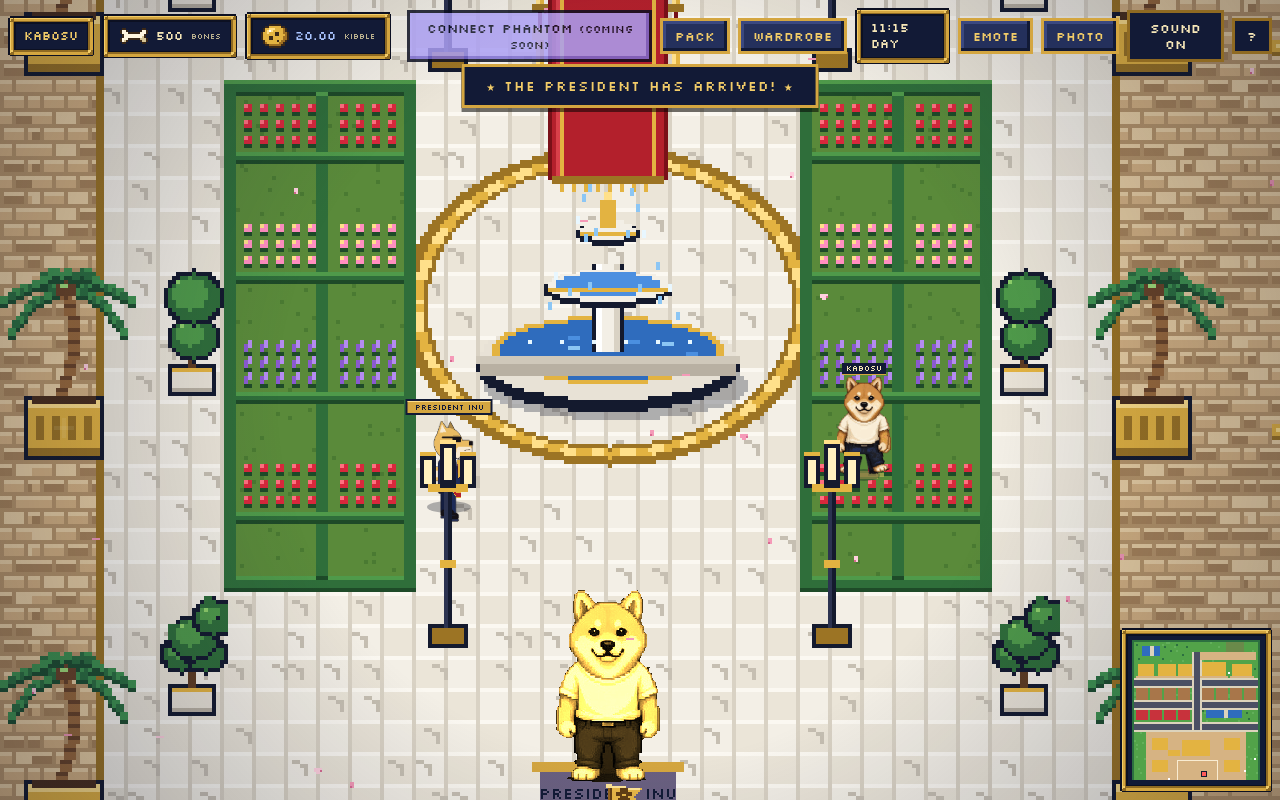
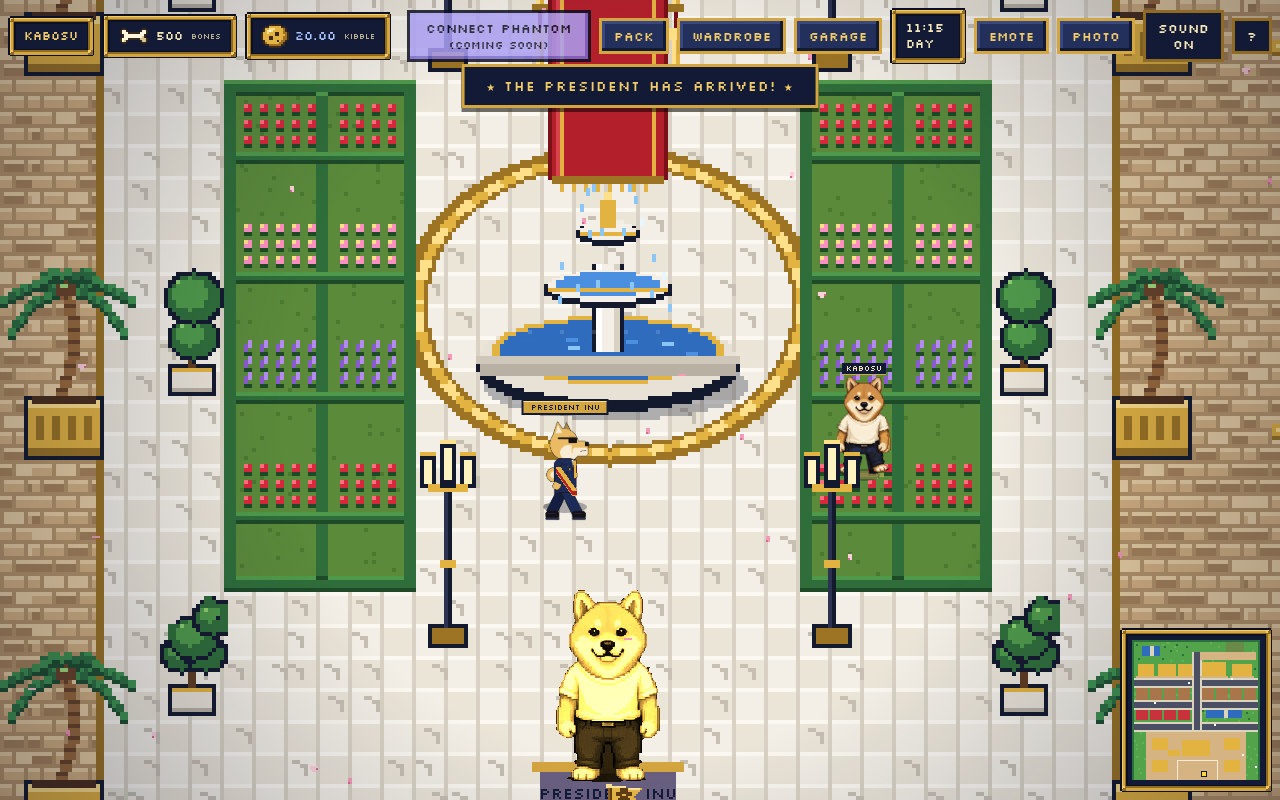
Buyable cars (8 models, 2 dealers, colours, garage, drive/honk/park, home driveway), pets (12 species, pet shop, follow/pet/name, home + photo), shared wallet adapter (sim now, kibble-pay swap), varied door positions + side porches with manifest/interact offsets; tests + proof

diff --git a/src/render.js b/src/render.js
@@ -1,4 +1,5 @@
 // Pixel-art world rendering: chunky gold-trimmed buildings, navy/gold palette.
+import { DOORS } from './world.js';
 import { TILE, MAP_W, MAP_H, MAP, T, BUILDINGS, PLOTS, NPC_HOMES, STALL_SLOTS, CLUBHOUSE, MALL_BUILDINGS, LEADERS, BRIDGES, DECOR } from './world.js';
 import { N, SCALE, PAL, buildGround, sprites, shadowEllipse, hash, mk, P } from './tiles.js';
 import { LAMP_TILES, unreadMail } from './ambient.js';
@@ -44,6 +45,7 @@ const THEMES = {
   fashion: { wall: '#5a2352', roof: '#3f1739', accent: '#f0a6dc', label: 'Clothing' },
   launch:  { wall: '#22377a', roof: '#18275a', accent: '#7fb4ff', label: 'Demo tokens' },
   cars:    { wall: '#2a2a33', roof: '#1c1c24', accent: '#c9c9d6', label: 'Coming soon' },
+  petshop: { wall: '#3a8a8a', roof: '#1e5a5a', accent: '#ffd84a', label: 'Pets - bones & KIBBLE' },
   mall:    { wall: '#6a4a14', roof: '#3a2a0a', accent: '#fff1b0', label: 'Luxury - demo KIBBLE' },
   jewel:   { wall: '#24305c', roof: '#121a36', accent: '#cfe8ff', label: 'Jewelry' },
   designer:{ wall: '#5a2352', roof: '#3f1739', accent: '#f0a6dc', label: 'Designer outfits' },
@@ -161,6 +163,29 @@ function drawBuildingArt(c, id, fx, fy, fw, fh) {
   const k = Math.max(1, Math.floor((fw * TILE) / im.width)), w = im.width * k, h = im.height * k; // integer upscale when the art is smaller than its footprint
   c.drawImage(im, fx * TILE + Math.round((fw * TILE - w) / 2), (fy + fh) * TILE - h, w, h); return true;
 }
+// Varied entrances: the art's centre door becomes a shop window; a new door is drawn left/right of centre or as a side porch.
+const sampleCv = {};
+function artPixel(id, ix, iy) { const im = BIMG[id]; if (!sampleCv[id]) { const [cv, x] = mk(im.width, im.height); x.drawImage(im, 0, 0); sampleCv[id] = x; } const d = sampleCv[id].getImageData(Math.max(0, Math.min(im.width - 1, ix | 0)), Math.max(0, Math.min(im.height - 1, iy | 0)), 1, 1).data; return `rgb(${d[0]},${d[1]},${d[2]})`; }
+function doorFace(c, dcx, base, accent) { // front double door with striped awning + steps (world px)
+  R(c, dcx - 22, base - 6, 44, 6, '#b8b0a2'); R(c, dcx - 22, base - 6, 44, 2, '#e8e2d6'); R(c, dcx - 18, base - 10, 36, 4, '#cfc8ba');
+  R(c, dcx - 17, base - 54, 34, 44, INK); for (const s of [-1, 1]) { const x = dcx + (s < 0 ? -15 : 1); R(c, x, base - 52, 14, 42, '#8a5a30'); R(c, x + 2, base - 50, 10, 16, '#fff3c0'); R(c, x + 2, base - 50, 3, 6, '#ffffff'); R(c, x + 2, base - 30, 10, 2, '#5e3c22'); R(c, x + (s < 0 ? 10 : 2), base - 28, 2, 6, GOLD_L); }
+  for (let i = 0; i < 6; i++) R(c, dcx - 24 + i * 8, base - 64, 8, 10, i % 2 ? '#f4f1ea' : accent); R(c, dcx - 24, base - 56, 48, 2, INK); for (let i = 0; i < 6; i++) R(c, dcx - 24 + i * 8 + 2, base - 54, 4, 2, i % 2 ? '#f4f1ea' : accent); }
+function shopWindow(c, cx, base, wall) { R(c, cx - 26, base - 70, 52, 66, wall); R(c, cx - 26, base - 4, 52, 4, '#b8b0a2');
+  R(c, cx - 21, base - 58, 42, 40, INK); R(c, cx - 19, base - 56, 38, 36, GOLD_D); R(c, cx - 17, base - 54, 34, 32, '#cfeefa'); R(c, cx - 15, base - 52, 4, 12, '#ffffff');
+  R(c, cx - 10, base - 34, 8, 10, '#c8323c'); R(c, cx + 2, base - 38, 10, 14, GOLD); R(c, cx + 4, base - 35, 6, 2, '#fff6ea'); R(c, cx - 19, base - 22, 38, 3, GOLD); R(c, cx - 21, base - 18, 42, 8, '#5e3c22'); for (let x = cx - 18; x < cx + 18; x += 5) R(c, x, base - 21, 3, 3, x % 2 ? '#ff7080' : '#ffd84a'); }
+function sidePorch(c, b, side) { const base = (b.y + b.h) * TILE, x = side === 'left' ? b.x * TILE - 30 : (b.x + b.w) * TILE + 2, im = BIMG[b.id];
+  const wall = im ? artPixel(b.id, side === 'left' ? 6 : im.width - 7, im.height - 40) : '#c8a878', th = THEMES[b.id] || THEMES.shop;
+  R(c, x - 2, base - 58, 32, 56, INK); R(c, x, base - 56, 28, 52, wall); R(c, x, base - 56, 28, 3, 'rgba(255,255,255,.25)');
+  R(c, x - 5, base - 66, 38, 10, INK); R(c, x - 4, base - 65, 36, 8, th.roof || '#5a2a1a'); R(c, x - 4, base - 58, 36, 2, GOLD);
+  R(c, x + 6, base - 46, 16, 40, INK); R(c, x + 7, base - 45, 14, 38, '#8a5a30'); R(c, x + 9, base - 43, 10, 12, '#fff3c0'); R(c, x + (side === 'left' ? 9 : 17), base - 26, 2, 5, GOLD_L);
+  R(c, x - 4, base - 6, 36, 6, '#b8b0a2'); R(c, x - 4, base - 6, 36, 2, '#e8e2d6'); // step
+  R(c, side === 'left' ? x + 28 : x - 2, base - 56, 2, 52, 'rgba(16,24,48,.3)'); }
+function drawDoors(c, b) { const d = DOORS[b.id], im = BIMG[b.id]; if (!d || !im) return;
+  const base = (b.y + b.h) * TILE, cx = (b.x + b.w / 2) * TILE, k = Math.max(1, Math.floor((b.w * TILE) / im.width)), x0 = b.x * TILE + Math.round((b.w * TILE - im.width * k) / 2), y0 = base - im.height * k;
+  const wall = artPixel(b.id, (cx - 1.4 * TILE - x0) / k, (base - 30 - y0) / k), th = THEMES[b.id] || THEMES.shop;
+  if (d.side === 'front' && Math.abs((b.x + d.dx + 0.5) * TILE - cx) < 24) return; // already centred
+  shopWindow(c, cx, base, wall);
+  if (d.side === 'front') doorFace(c, (b.x + d.dx + 0.5) * TILE, base, th.accent === '#fff1b0' ? '#c8323c' : (th.accent || '#c8323c')); }
 function plaque(c, text, cx, y) {
   c.font = `8px ${FONT}`; const w = Math.ceil(c.measureText(text).width) + 10;
   R(c, cx - w / 2 - 1, y - 1, w + 2, 13, INK); R(c, cx - w / 2, y, w, 11, NAVY); R(c, cx - w / 2, y + 10, w, 1, GOLD);
@@ -211,7 +236,8 @@ export function prerenderMap() {
     else if (!LUX.has(d.kind)) props.push(d.kind === 'hedge' ? sp(S.hedge, d.x * TILE, d.y * TILE + 4, d.y * TILE + 30) : sp(S[d.kind], d.x * TILE - 2, d.y * TILE + 4, d.y * TILE + 30)); }
   for (const h of NPC_HOMES) props.push(sp(S.mailbox, (h.x + 5) * TILE + 6, (h.y + h.h + 1) * TILE - 34, (h.y + h.h + 1) * TILE - 2));
   // buildings (square front-facing art; legacy procedural storefront if the PNG is missing)
-  for (const b of [...BUILDINGS, ...MALL_BUILDINGS]) props.push({ y: (b.y + b.h) * TILE - 1, d: (c) => { if (b.id === 'mall') return drawMallFacade(c, pixelText); if (!drawBuildingArt(c, b.id, b.x, b.y, b.w, b.h)) legacyBuilding(c, b); } });
+  for (const b of [...BUILDINGS, ...MALL_BUILDINGS]) props.push({ y: (b.y + b.h) * TILE - 1, d: (c) => { if (b.id === 'mall') return drawMallFacade(c, pixelText); if (!drawBuildingArt(c, b.id, b.x, b.y, b.w, b.h)) legacyBuilding(c, b); else drawDoors(c, b); } });
+  for (const b of [...BUILDINGS, ...MALL_BUILDINGS]) if (DOORS[b.id] && DOORS[b.id].side !== 'front') props.push({ y: (b.y + b.h) * TILE - 26, d: (c) => sidePorch(c, b, DOORS[b.id].side) });
   props.push(...luxuryProps());
   for (const h of NPC_HOMES) props.push({ y: (h.y + h.h) * TILE - 1, d: (c) => { if (!drawBuildingArt(c, HOUSE_ART[h.id], h.x, h.y, h.w, h.h)) legacyNpcHouse(c, h); plaque(c, `${h.owner.toUpperCase()}'S`, (h.x + 1.5) * TILE, (h.y + h.h) * TILE - 22); } });
   props.push({ y: (LEADERS.y + LEADERS.h) * TILE - 1, d: (c) => { if (drawBuildingArt(c, 'leaders', LEADERS.x, LEADERS.y, LEADERS.w, LEADERS.h)) return;

diff --git a/src/pets.js b/src/pets.js
@@ -1,0 +1,51 @@
+// Pets: bought like clothes, follow the player, idle + walk animations, can be named and petted.
+// Common pets cost Bones; exotic pets cost $KIBBLE through the shared wallet adapter (treasury + pool split).
+import { wallet } from './wallet.js';
+import { toU } from './mall.js';
+export const PETS = {
+  kitten:   { name: 'Kitten', cur: 'bones', price: 150, pal: ['#f0a050', '#b86a2a', '#fff1e0'] },
+  bunny:    { name: 'Bunny', cur: 'bones', price: 120, pal: ['#f4f1ea', '#c9c3b8', '#ff9fb8'] },
+  hamster:  { name: 'Hamster', cur: 'bones', price: 80, pal: ['#e8b070', '#b07840', '#fff4e0'] },
+  parrot:   { name: 'Parrot', cur: 'bones', price: 200, pal: ['#3fb04a', '#e8343c', '#ffd84a'] },
+  fishbowl: { name: 'Goldfish Bowl', cur: 'bones', price: 60, pal: ['#ff8a2a', '#9fd8f5', '#e6f7ff'] },
+  redpanda: { name: 'Red Panda', cur: 'kibble', price: 18, exotic: true, pal: ['#c8502a', '#3a2418', '#fff1e0'] },
+  fennec:   { name: 'Fennec Fox', cur: 'kibble', price: 15, exotic: true, pal: ['#e8c88a', '#b08a50', '#fff6ea'] },
+  axolotl:  { name: 'Axolotl', cur: 'kibble', price: 12, exotic: true, pal: ['#ffa8c8', '#e86a9a', '#9fd8f5'] },
+  peacock:  { name: 'Peacock', cur: 'kibble', price: 22, exotic: true, pal: ['#2a6ad0', '#2aa890', '#e3b341'] },
+  dragon:   { name: 'Baby Dragon-Lizard', cur: 'kibble', price: 30, exotic: true, pal: ['#4fb05a', '#2a7038', '#ffd84a'] },
+  koi:      { name: 'Golden Koi', cur: 'kibble', price: 25, exotic: true, pal: ['#e3b341', '#fff6ea', '#9fd8f5'] },
+  snowowl:  { name: 'Snow Owl', cur: 'kibble', price: 20, exotic: true, pal: ['#f4f6fa', '#9aa0b4', '#ffd84a'] },
+};
+export function ensurePets(s) { s.pets ||= { owned: [], active: null }; return s.pets; }
+export function buyPet(s, species, name) {
+  const p = PETS[species], st = ensurePets(s); if (!p) return { ok: false, reason: 'Unknown pet' };
+  if (p.cur === 'bones') { if (s.bones < p.price) return { ok: false, reason: `Need ${p.price} bones` }; s.bones -= p.price; }
+  else { const r = wallet().purchaseSync({ state: s, itemId: 'pet-' + species, priceU: toU(p.price) }); if (!r.ok) return r; }
+  const pet = { id: 'pet' + (st.owned.length + 1), species, name: (name || '').trim().slice(0, 16) || p.name }; st.owned.push(pet); st.active = pet.id; return { ok: true, pet };
+}
+export function renamePet(s, id, name) { const p = ensurePets(s).owned.find((q) => q.id === id); if (p && name.trim()) p.name = name.trim().slice(0, 16); return p; }
+export const activePet = (s) => { const st = ensurePets(s); return st.owned.find((p) => p.id === st.active) || null; };
+// follow: trails a few steps behind the player, stops when close (headless)
+export function followStep(f, tx, ty, dt) { const dx = tx - f.x, dy = ty - f.y, d = Math.hypot(dx, dy); f.moving = d > 26; if (f.moving) { const sp = Math.min(d - 20, 120 * dt + d * 2 * dt); f.x += (dx / d) * sp; f.y += (dy / d) * sp; if (Math.abs(dx) > 2) f.dir = dx > 0 ? 1 : -1; f.phase = (f.phase || 0) + dt * 10; } else f.phase = (f.phase || 0) + dt * 2; return f; }
+
+// ---------- pixel sprites (native 16x16, 2 frames) ----------
+const cache = new Map();
+export function petSprite(species, frame = 0) { const k = species + frame; let cv = cache.get(k); if (cv) return cv;
+  cv = document.createElement('canvas'); cv.width = 16; cv.height = 16; const c = cv.getContext('2d'), [a, b, e] = PETS[species].pal, I = '#141a2e', P = (x, y, w, h, col) => { c.fillStyle = col; c.fillRect(x, y, w, h); }, f = frame;
+  const legs = (xs, y) => xs.forEach((x, i) => P(x, y + ((i + f) % 2 ? 0 : -1), 2, 2, b));
+  switch (species) {
+    case 'kitten': P(3, 7, 9, 6, I); P(4, 8, 7, 4, a); P(9, 3, 6, 6, I); P(10, 4, 4, 4, a); P(10, 2, 2, 2, I); P(13, 2, 2, 2, I); P(11, 5, 1, 1, I); P(13, 5, 1, 1, I); P(1, 5 + f, 2, 4, a); P(5, 9, 4, 1, b); legs([4, 9], 13); break;
+    case 'bunny': P(3, 8, 9, 6, I); P(4, 9, 7, 4, a); P(9, 5, 5, 5, I); P(10, 6, 3, 3, a); P(10, 0, 2, 6, I); P(12, 0 + f, 2, 6, I); P(10, 1, 1, 4, e); P(12, 1 + f, 1, 4, e); P(12, 7, 1, 1, I); P(2, 9, 2, 2, '#ffffff'); legs([4, 9], 14 - f); break;
+    case 'hamster': P(3, 7, 11, 7, I); P(4, 8, 9, 5, a); P(4, 11, 9, 2, e); P(11, 9, 1, 1, I); P(10, 6, 2, 2, b); P(5, 6, 2, 2, b); legs([5, 10], 14); break;
+    case 'parrot': P(6, 3, 6, 10, I); P(7, 4, 4, 8, a); P(10, 5, 3, 2, e); P(8, 5, 1, 1, I); P(5, 7 - f, 2, 5, b); P(11, 7 - f, 2, 5, b); P(7, 12, 4, 3, b); P(7, 14, 1, 2, '#e3b341'); P(10, 14, 1, 2, '#e3b341'); break;
+    case 'fishbowl': P(2, 4, 12, 11, I); P(3, 5, 10, 9, b); P(3, 5, 10, 2, e); P(5 + f * 2, 9, 4, 3, a); P(4 + f * 2, 10, 1, 1, a); P(4, 7, 1, 3, '#ffffff'); P(3, 14, 10, 1, '#c9a46a'); break;
+    case 'redpanda': P(2, 7, 10, 6, I); P(3, 8, 8, 4, a); P(3, 11, 8, 1, b); P(9, 3, 6, 6, I); P(10, 4, 4, 4, a); P(10, 6, 4, 2, e); P(11, 5, 1, 1, I); P(13, 5, 1, 1, I); P(0, 6 + f, 3, 6, a); P(0, 8 + f, 3, 1, b); P(0, 10 + f, 3, 1, b); legs([4, 9], 13); break;
+    case 'fennec': P(3, 8, 9, 5, I); P(4, 9, 7, 3, a); P(9, 5, 6, 5, I); P(10, 6, 4, 3, a); P(8, 0, 3, 6, I); P(13, 0, 3, 6, I); P(9, 1, 1, 4, e); P(14, 1, 1, 4, e); P(12, 7, 1, 1, I); P(0, 8 + f, 4, 3, a); P(0, 8 + f, 1, 3, e); legs([4, 9], 13); break;
+    case 'axolotl': P(2, 8, 12, 5, I); P(3, 9, 10, 3, a); P(10, 6, 5, 6, I); P(11, 7, 3, 4, a); P(9, 5, 1, 3, b); P(15, 5, 1, 3, b); P(9, 11, 1, 2, b); P(12, 8, 1, 1, I); P(0, 9 + f, 3, 2, a); legs([4, 9], 13); break;
+    case 'peacock': for (let i = 0; i < 5; i++) { P(0 + i * 2, 1 + (i % 2) + f, 3, 9, b); P(1 + i * 2, 3 + (i % 2) + f, 1, 2, e); } P(8, 5, 5, 8, I); P(9, 6, 3, 6, a); P(10, 2, 3, 4, a); P(13, 3, 1, 1, e); P(11, 1, 1, 1, e); P(9, 13, 1, 2, b); P(11, 13, 1, 2, b); break;
+    case 'dragon': P(2, 8, 10, 5, I); P(3, 9, 8, 3, a); P(9, 5, 6, 5, I); P(10, 6, 4, 3, a); P(12, 7, 1, 1, I); P(4, 5 - f, 4, 4, b); P(5, 6 - f, 2, 2, e); P(0, 10, 3, 2, a); P(0, 11, 1, 1, e); for (const x of [4, 6, 8]) P(x, 8, 1, 1, e); legs([4, 9], 13); break;
+    case 'koi': P(2, 4, 12, 11, I); P(3, 5, 10, 9, c3(b)); P(5 + f * 2, 8, 5, 3, a); P(6 + f * 2, 9, 2, 1, e); P(3 + f * 2, 9, 2, 1, a); P(4, 6, 1, 3, '#ffffff'); P(3, 14, 10, 1, '#e3b341'); break;
+    case 'snowowl': P(4, 3, 9, 11, I); P(5, 4, 7, 9, a); P(6, 5, 2, 2, e); P(9, 5, 2, 2, e); P(6, 5, 1, 1, I); P(10, 5, 1, 1, I); P(8, 7, 1, 1, '#e3b341'); P(5, 9, 7, 1, b); P(4 - f, 7, 1, 4, b); P(12 + f, 7, 1, 4, b); P(6, 14, 1, 2, '#e3b341'); P(10, 14, 1, 2, '#e3b341'); break;
+  }
+  cache.set(k, cv); return cv; }
+const c3 = (x) => x;

diff --git a/src/world.js b/src/world.js
@@ -18,7 +18,12 @@ export const MALL_BUILDINGS = [
   { id: 'goldden', name: 'Golden Den Furniture', x: 10, y: 60, w: 8, h: 6, cat: 'furniture' },
   { id: 'luxauto', name: 'Zoomies Luxury Autos', x: 46, y: 60, w: 8, h: 6, cat: 'car' },
   { id: 'office', name: "President's Office", x: 27, y: 74, w: 10, h: 5, cat: 'office' },
+  { id: 'petshop', name: 'Pawsome Pets', x: 10, y: 70, w: 8, h: 6, cat: 'pets' },
 ];
+// Varied entrances: front door offset (tiles from the left), or a side porch on the left/right wall facing a side street.
+export const DOORS = {"cafe": {dx: 1, side: "front"}, "shop": {dx: 7, side: "front"}, "fashion": {dx: 0, side: "right"}, "cars": {dx: 2, side: "front"}, "jewel": {dx: 0, side: "left"}, "designer": {dx: 6, side: "front"}, "goldden": {dx: 0, side: "right"}, "luxauto": {dx: 1, side: "front"}, "petshop": {dx: 6, side: "front"}};
+export function doorTile(b) { const d = DOORS[b.id]; if (!d) return { tx: b.x + Math.floor(b.w / 2), ty: b.y + b.h, side: 'front' };
+  return d.side === 'left' ? { tx: b.x - 1, ty: b.y + b.h - 1, side: 'left' } : d.side === 'right' ? { tx: b.x + b.w, ty: b.y + b.h - 1, side: 'right' } : { tx: b.x + d.dx, ty: b.y + b.h, side: 'front' }; }
 export const STATUE = { x: 31, y: 71 };
 export const FOUNTAIN = { x: 30, y: 63, w: 4, h: 3 }; // tiered marble fountain on the Kibble Mall forecourt
 export const FORECOURT = { x: 24, y: 58, w: 16, h: 16 }; // marble plaza in front of the mall
@@ -68,7 +73,7 @@ export const MAP = buildMap();
 // Solid decor: flowering bushes flanking shop doors + hedges along NPC home fronts (door columns left open).
 export const DECOR = [];
 { const ok = (x, y) => [T.GRASS, T.FLOWER, T.PLAZA].includes(MAP[y]?.[x]);
-  for (const b of [...BUILDINGS, ...MALL_BUILDINGS]) { if (ok(b.x - 1, b.y + b.h - 1)) DECOR.push({ x: b.x - 1, y: b.y + b.h - 1, kind: 'bushP' }); if (ok(b.x + b.w, b.y + b.h - 1)) DECOR.push({ x: b.x + b.w, y: b.y + b.h - 1, kind: 'bushY' }); }
+  for (const b of [...BUILDINGS, ...MALL_BUILDINGS]) { const sd = DOORS[b.id]?.side; if (sd !== 'left' && ok(b.x - 1, b.y + b.h - 1)) DECOR.push({ x: b.x - 1, y: b.y + b.h - 1, kind: 'bushP' }); if (sd !== 'right' && ok(b.x + b.w, b.y + b.h - 1)) DECOR.push({ x: b.x + b.w, y: b.y + b.h - 1, kind: 'bushY' }); }
   for (const h of NPC_HOMES) for (const dx of [0, 1, 4, 5]) DECOR.push({ x: h.x + dx, y: h.y + h.h, kind: 'hedge' });
   for (const [xs, y] of [[[2, 12, 21, 38, 46, 61], 19], [[8, 15, 22, 41, 48, 55], 23], [[8, 15, 22, 36, 42, 52, 58], 34]]) for (const x of xs) if (MAP[y][x] === T.WALK) DECOR.push({ x, y, kind: 'planter' }); // street trees
   for (const [x, y] of [[49, 18], [50, 18], [58, 18], [59, 18], [44, 66], [45, 66], [54, 66], [55, 66]]) DECOR.push({ x, y, kind: 'car' });
@@ -84,8 +89,8 @@ export const isSolid = (tx, ty) => tx < 0 || ty < 0 || tx >= MAP_W || ty >= MAP_
 // Interaction points: tile player should stand on
 export function interactables(state) {
   const list = [];
-  for (const b of BUILDINGS) list.push({ kind: 'building', id: b.id, name: b.name, tx: b.x + Math.floor(b.w / 2), ty: b.y + b.h });
-  for (const b of MALL_BUILDINGS) list.push({ kind: 'mall', id: b.id, name: b.name, cat: b.cat, tx: b.x + Math.floor(b.w / 2), ty: b.y + b.h });
+  for (const b of BUILDINGS) list.push({ kind: 'building', id: b.id, name: b.name, ...doorTile(b) });
+  for (const b of MALL_BUILDINGS) list.push({ kind: 'mall', id: b.id, name: b.name, cat: b.cat, ...doorTile(b) });
   list.push({ kind: 'mall', id: 'board', name: 'Mall prize-pool board', cat: 'board', tx: STATUE.x + 3, ty: STATUE.y });
   list.push({ kind: 'mall', id: 'leaders', name: 'Leaderboards Hall', cat: 'leaders', tx: LEADERS.x + 3, ty: LEADERS.y + LEADERS.h });
   for (const p of PLOTS) {

diff --git a/src/cars.js b/src/cars.js
@@ -10,16 +10,24 @@ export const LANES = { // 3-tile roads = two 48px lanes, right-hand traffic
 const INK = '#141a2e', GLASS = '#9fd8f5', GLASS_L = '#e6f7ff', TIRE = '#22232c', HUB = '#9aa0b4', HEAD = '#fff6c8', TAIL = '#e8343c', CHROME = '#c9cede';
 const shade = (hex, f) => { const n = parseInt(hex.slice(1), 16); return '#' + [16, 8, 0].map((s) => Math.max(0, Math.min(255, Math.round(((n >> s) & 255) * f))).toString(16).padStart(2, '0')).join(''); };
 const cache = new Map();
+// cabin [x0, x1, roofY] per model; body/wheels shared so every model keeps the same footprint + scale
+const CABIN = { sedan: [9, 27, 2], coupe: [12, 24, 4], limo: [9, 27, 2], hatch: [4, 24, 2], suv: [4, 28, 1], pickup: [17, 28, 3], supercar: [14, 26, 6], convertible: [0, 0, 9] };
 function mk(w, h) { const cv = document.createElement('canvas'); cv.width = w; cv.height = h; const c = cv.getContext('2d'); return [cv, c]; }
 const P = (c, x, y, w, h, col) => { c.fillStyle = col; c.fillRect(x, y, w, h); };
 
 function side(col, kind) { // 40 x 20 native, nose at the right, wheels touch y=20
-  const [cv, c] = mk(36, 20), L = shade(col, 1.3), D = shade(col, 0.68), [cx0, cx1, cy] = kind === 'coupe' ? [12, 24, 4] : [9, 27, 2];
+  const [cv, c] = mk(36, 20), L = shade(col, 1.3), D = shade(col, 0.68), [cx0, cx1, cy] = CABIN[kind] || CABIN.sedan;
+  if (kind === 'convertible') { P(c, 22, 5, 1, 5, INK); P(c, 23, 4, 2, 6, GLASS); P(c, 23, 4, 1, 2, GLASS_L); P(c, 11, 6, 3, 4, '#5e3c22'); P(c, 17, 6, 3, 4, '#5e3c22'); P(c, 11, 6, 3, 1, '#8a5a30'); P(c, 17, 6, 3, 1, '#8a5a30'); }
+  else {
   P(c, cx0, cy - 1, cx1 - cx0, 1, INK); P(c, cx0 - 1, cy, 1, 10 - cy, INK); P(c, cx1, cy, 1, 10 - cy, INK); // cabin outline
   P(c, cx0, cy, cx1 - cx0, 10 - cy, col); P(c, cx0, cy, cx1 - cx0, 1, L);
   P(c, cx0 + 1, cy + 1, cx1 - cx0 - 2, 8 - cy, GLASS); P(c, cx0 + 1, cy + 1, 4, 1, GLASS_L); P(c, cx0 + 2, cy + 2, 1, 2, GLASS_L);
   P(c, Math.round((cx0 + cx1) / 2), cy + 1, 1, 8 - cy, col); // B-pillar
   if (kind === 'limo') P(c, cx0 + 5, cy + 1, 1, 8 - cy, col);
+  if (kind === 'suv') { P(c, cx0 + 1, 0, cx1 - cx0 - 2, 1, '#6e7386'); for (const x of [cx0 + 2, cx1 - 3]) P(c, x, 0, 1, 1, INK); }
+  }
+  if (kind === 'pickup') { P(c, 1, 7, 15, 3, INK); P(c, 2, 8, 13, 2, D); P(c, 2, 7, 13, 1, L); }
+  if (kind === 'supercar') { P(c, 0, 6, 6, 2, INK); P(c, 1, 6, 4, 1, L); P(c, 2, 8, 1, 2, INK); P(c, 28, 9, 7, 1, D); }
   P(c, 1, 9, 34, 1, INK); P(c, 0, 10, 1, 7, INK); P(c, 35, 10, 1, 7, INK); P(c, 1, 17, 34, 1, INK); // body outline
   P(c, 1, 10, 34, 7, col); P(c, 1, 10, 34, 1, L); P(c, 1, 15, 34, 2, D); P(c, 5, 13, 26, 1, D); // body, highlight, crease
   P(c, 15, 11, 3, 1, CHROME); P(c, 23, 11, 3, 1, CHROME); // door handles
@@ -38,6 +46,10 @@ function top(col, kind, view) { // 20 x 40 native (16 body + wheel nubs), front 
   if (view === 'front') { glass(6, 4); P(c, 4, 11, 12, 10, L); P(c, 5, 12, 10, 8, col); glass(22, 4); P(c, 4, 27, 12, 1, D); nose(HEAD); }
   else { glass(10, 4); P(c, 4, 15, 12, 10, L); P(c, 5, 16, 10, 8, col); glass(26, 3); P(c, 4, 8, 12, 1, D); nose(TAIL); }
   if (kind === 'limo') P(c, 9, 1, 2, 34, '#fff1b0');
+  if (kind === 'convertible') { P(c, 4, 12, 12, 13, '#5e3c22'); for (const y of [14, 20]) { P(c, 5, y, 4, 3, '#8a5a30'); P(c, 11, y, 4, 3, '#8a5a30'); } }
+  if (kind === 'pickup') { const y0 = view === 'front' ? 3 : 20; P(c, 4, y0, 12, 13, INK); P(c, 5, y0 + 1, 10, 11, D); }
+  if (kind === 'supercar') { P(c, 9, 1, 2, 34, '#141a2e'); P(c, 3, view === 'front' ? 1 : 33, 14, 2, INK); }
+  if (kind === 'suv') { P(c, 5, 12, 1, 12, '#6e7386'); P(c, 14, 12, 1, 12, '#6e7386'); }
   return cv;
 }
 export function carSprite(col, view = 'side', kind = 'sedan') {

diff --git a/src/garage.js b/src/garage.js
@@ -1,0 +1,23 @@
+// Buyable cars: Zoomies Motors (everyday, Bones) + Zoomies Luxury Autos (luxury, $KIBBLE via the wallet adapter, 2% split).
+import { wallet } from './wallet.js';
+import { toU } from './mall.js';
+export const CAR_MODELS = {
+  hatch:       { name: 'Pupper Hatchback', kind: 'hatch', dealer: 'cars', price: 400, cur: 'bones', speed: 190, blurb: 'Zippy little city runabout.' },
+  sedan:       { name: 'Fetch Sedan', kind: 'sedan', dealer: 'cars', price: 650, cur: 'bones', speed: 205, blurb: 'Comfy family cruiser.' },
+  suv:         { name: 'Trailblazer SUV', kind: 'suv', dealer: 'cars', price: 900, cur: 'bones', speed: 200, blurb: 'Room for the whole Pack.' },
+  pickup:      { name: 'Bone Hauler Pickup', kind: 'pickup', dealer: 'cars', price: 800, cur: 'bones', speed: 195, blurb: 'Hauls bones by the bed-load.' },
+  coupe:       { name: 'Zoomie GT Coupe', kind: 'coupe', dealer: 'luxauto', price: 40, cur: 'kibble', speed: 250, blurb: 'Sports coupe, tuned for zoomies.' },
+  convertible: { name: 'Riviera Convertible', kind: 'convertible', dealer: 'luxauto', price: 55, cur: 'kibble', speed: 235, blurb: 'Ears in the wind.' },
+  supercar:    { name: 'Comet Supercar', kind: 'supercar', dealer: 'luxauto', price: 90, cur: 'kibble', speed: 280, blurb: 'Fastest thing on four paws.' },
+  limo:        { name: 'Gold Bone-mobile Limo', kind: 'limo', dealer: 'luxauto', price: 65, cur: 'kibble', speed: 210, blurb: 'Fit for a President.' },
+};
+export const CAR_COLORS = { Red: '#c8323c', Blue: '#2f6fbd', Green: '#3f9450', Gold: '#e3b341', White: '#f2efe6', Black: '#232633', Pink: '#e86a9a', Purple: '#7a4ac0' };
+export function ensureGarage(s) { s.garage ||= { cars: [], active: null, parked: null }; return s.garage; }
+export const ownsModel = (s, model) => ensureGarage(s).cars.some((c) => c.model === model);
+export function buyCar(s, model, color) {
+  const m = CAR_MODELS[model], g = ensureGarage(s), col = CAR_COLORS[color] ? color : 'Red'; if (!m) return { ok: false, reason: 'Unknown model' };
+  if (m.cur === 'bones') { if (s.bones < m.price) return { ok: false, reason: `Need ${m.price} bones` }; s.bones -= m.price; }
+  else { const r = wallet().purchaseSync({ state: s, itemId: 'car-' + model, priceU: toU(m.price) }); if (!r.ok) return r; }
+  const car = { id: 'c' + (g.cars.length + 1) + '-' + model, model, color: col }; g.cars.push(car); g.active ??= car.id; return { ok: true, car };
+}
+export const carOf = (s, id) => ensureGarage(s).cars.find((c) => c.id === id);

diff --git a/src/wallet.js b/src/wallet.js
@@ -1,0 +1,28 @@
+// Shared wallet adapter for every $KIBBLE purchase (cars, exotic pets, ...).
+// Today: SimWallet (local demo balance, exact 2% split recorded to the treasury ledger, NO transfers).
+// Later: setWallet(kibblePayWallet(kibblePay)) swaps in /workspace/kibble-pay (tKIBBLE on devnet) without touching callers.
+// Contract: wallet.purchase({ state, itemId, name, priceU }) -> Promise<{ ok, reason?, quote, sig, simulated }>
+import { ensureMall, feeSplit, settle, toU, fromU, fmtK, OWNER_WALLET } from './mall.js';
+
+export const TREASURY = OWNER_WALLET; // Zachary's treasury: BzLYTFAfUsjzQ5x8bx5BbPK4DFtaHrLCuferkvkxTNGJ
+export const SimWallet = {
+  id: 'sim', simulated: true,
+  quote: (priceU) => feeSplit(priceU),
+  purchaseSync({ state, itemId, priceU }) {
+    const q = feeSplit(priceU); if (toU(state.kibble) < q.total) return { ok: false, reason: `Need ${fmtK(q.total)} KIBBLE (incl. 2% fee)`, quote: q };
+    state.kibble = fromU(toU(state.kibble) - q.total); settle(ensureMall(state), q, itemId);
+    return { ok: true, quote: q, sig: 'sim-' + Date.now().toString(36), simulated: true, to: TREASURY };
+  },
+  async purchase(o) { return this.purchaseSync(o); },
+};
+// Adapter for the real SDK (kibble-pay public/kibble-pay.js). Server-side catalog is authoritative; the 2% split
+// becomes an off-chain ledger on the server, so we send the all-in total (price + fee) as the price.
+export function kibblePayWallet(kibblePay) { return {
+  id: 'kibble-pay', simulated: false, quote: (priceU) => feeSplit(priceU),
+  async purchase({ state, itemId, priceU }) { const q = feeSplit(priceU);
+    const r = await kibblePay.buy({ itemId, priceBaseUnits: String(q.total) }); if (!r?.ok) return { ok: false, reason: r?.reason || 'Payment failed', quote: q };
+    settle(ensureMall(state), q, itemId); return { ok: true, quote: q, sig: r.signature, orderId: r.orderId, simulated: false, to: TREASURY }; },
+}; }
+let active = SimWallet;
+export const wallet = () => active;
+export function setWallet(w) { active = w || SimWallet; return active; }

diff --git a/src/luxury.js b/src/luxury.js
@@ -1,6 +1,6 @@
 // Kibble Mall luxury district: marble forecourt, tiered fountain, parterres, topiary, palms, facade, sparkles, night uplighting.
 // Original pixel art. Ground bits are painted at native res (N=16/tile); props are native sprites drawn at 2x (U=2).
-import { TILE, FOUNTAIN, FORECOURT, MALL_BUILDINGS, BUILDINGS, DECOR } from './world.js';
+import { TILE, FOUNTAIN, FORECOURT, MALL_BUILDINGS, BUILDINGS, DECOR, DOORS } from './world.js';
 import { N, PAL, mk, P, hash } from './tiles.js';
 import { drawCar } from './cars.js';
 
@@ -80,8 +80,9 @@ export function luxuryProps() { const S = sprites(), out = [];
   out.push(at2(S.valet, 41 * TILE + 8, 59 * TILE - 2));
   // upscale storefronts across the outer shopping district: flower window boxes, glass window displays, A-board signs
   SHOPS.forEach((b, i) => { const cx = (b.x + b.w / 2) * TILE, base = (b.y + b.h) * TILE;
-    for (const sx of [-1, 1]) { out.push(at2(S['wb' + (i % 2)], cx + sx * 64, base + 6)); out.push(at2(S['dc' + ((i + (sx > 0)) % 3)], cx + sx * 104, base + 22)); }
-    out.push(at2(S.aboard, cx + 40, base + 30)); });
+    const d = DOORS[b.id], dx = d?.side === 'front' ? (b.x + d.dx + 0.5) * TILE : d?.side === 'left' ? b.x * TILE - 16 : d?.side === 'right' ? (b.x + b.w) * TILE + 16 : cx, clear = (x) => Math.abs(x - dx) > 44;
+    for (const sx of [-1, 1]) { if (clear(cx + sx * 64)) out.push(at2(S['wb' + (i % 2)], cx + sx * 64, base + 6)); if (clear(cx + sx * 104)) out.push(at2(S['dc' + ((i + (sx > 0)) % 3)], cx + sx * 104, base + 22)); }
+    const ab = dx + (dx > cx ? -44 : 44); out.push(at2(S.aboard, ab, base + 30)); });
   out.push({ y: 59 * TILE, d: (c) => drawCar(c, 43 * TILE, 59 * TILE - 2, { col: GOLD, kind: 'limo', dir: 'west' }) });
   return out; }
 

diff --git a/src/president.js b/src/president.js
@@ -10,7 +10,7 @@ export const TIP = 25;
 const HOUR = (dayLen) => dayLen / 24; // real seconds per in-game hour
 const h32 = (n) => { let h = (n * 2654435761) ^ 0x9e3779b9; h = Math.imul(h ^ (h >>> 15), 2246822507); h = Math.imul(h ^ (h >>> 13), 3266489909); return ((h ^ (h >>> 16)) >>> 0) / 4294967296; };
 const T = (x, y) => ({ x: (x + 0.5) * TILE, y: (y + 0.5) * TILE });
-const SPOTS = { limoStop: { x: LANES.south(), y: 44 * TILE + 10 }, carpetEnd: T(32, 48), heli: T(20, 70), smoke: T(32, 67), edge: T(1, 45), edgeIn: T(8, 45) };
+const SPOTS = { limoStop: { x: LANES.south(), y: 44 * TILE + 10 }, carpetEnd: T(32, 48), heli: T(21, 71), smoke: T(32, 67), edge: T(1, 45), edgeIn: T(8, 45) };
 export const WAYPOINTS = [[32, 59], [14, 56], [50, 56], [14, 67], [50, 67], [32, 80], [32, 67], [32, 48]];
 
 export function makePresident(seed = 7) { return { seed, n: 0, next: null, on: false, stage: 'away', kind: null, t: 0, x: 0, y: 0, face: 'down', moving: false, phase: 0, path: [], wait: 0, stay: 0, tipped: false, emote: null, coffee: false, fx: [], gatherT: 0, said: 0, veh: null }; }

diff --git a/index.html b/index.html
@@ -24,6 +24,7 @@
   <button id="btn-phantom" class="btn phantom" title="Wallet support is not built yet">Connect Phantom <small>(coming soon)</small></button>
   <button id="btn-pack" class="btn alt">Pack</button>
   <button id="btn-wardrobe" class="btn alt">Wardrobe</button>
+  <button id="btn-garage" class="btn alt">Garage</button>
   <span class="chip" id="clock">--:--</span>
   <button id="btn-emote" class="btn alt" title="G">Emote</button>
   <button id="btn-photo" class="btn alt" title="P">Photo</button>
